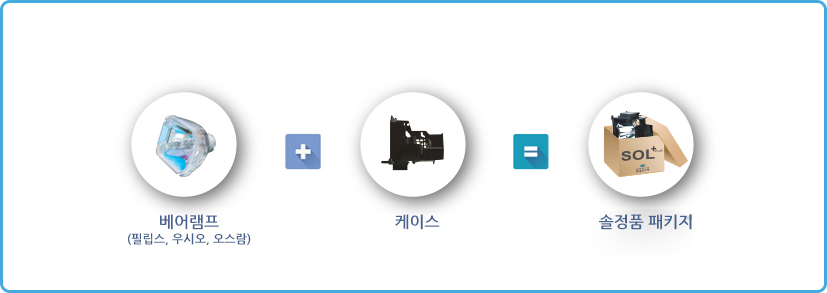
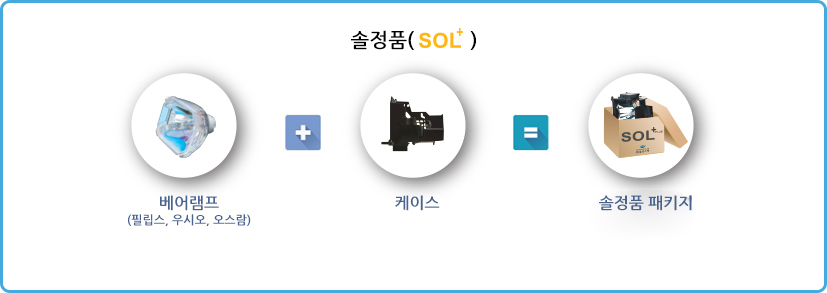
251028_13

diff --git a/sub02_2.html b/sub02_2.html
@@ -147,9 +147,153 @@
                     </ul>
                 </div>
             </div>
-            <div class="sol">2</div>
-            <div class="bare">3</div>
-            <div class="refill">4</div>
+            <div class="sol">
+                <img src="img/sub02-2_2.png" alt="솔정품 이미지">
+                <div class="solDetail">
+                    <b>제품적용 프로젝터 브랜드</b>
+                    <ul>
+                        <li><img src="img/product_brand/product_brand1.png" alt="제품 브랜드 이미지"></li>
+                        <li><img src="img/product_brand/product_brand2.png" alt="제품 브랜드 이미지"></li>
+                        <li><img src="img/product_brand/product_brand3.png" alt="제품 브랜드 이미지"></li>
+                        <li><img src="img/product_brand/product_brand4.png" alt="제품 브랜드 이미지"></li>
+                        <li><img src="img/product_brand/product_brand5.png" alt="제품 브랜드 이미지"></li>
+                        <li><img src="img/product_brand/product_brand6.png" alt="제품 브랜드 이미지"></li>
+                        <li><img src="img/product_brand/product_brand7.png" alt="제품 브랜드 이미지"></li>
+                        <li><img src="img/product_brand/product_brand8.png" alt="제품 브랜드 이미지"></li>
+                        <li><img src="img/product_brand/product_brand9.png" alt="제품 브랜드 이미지"></li>
+                        <li><img src="img/product_brand/product_brand10.png" alt="제품 브랜드 이미지"></li>
+                        <li><img src="img/product_brand/product_brand11.png" alt="제품 브랜드 이미지"></li>
+                        <li><img src="img/product_brand/product_brand12.png" alt="제품 브랜드 이미지"></li>
+                        <li><img src="img/product_brand/product_brand13.png" alt="제품 브랜드 이미지"></li>
+                        <li><img src="img/product_brand/product_brand14.png" alt="제품 브랜드 이미지"></li>
+                        <li><img src="img/product_brand/product_brand15.png" alt="제품 브랜드 이미지"></li>
+                        <li><img src="img/product_brand/product_brand16.png" alt="제품 브랜드 이미지"></li>
+                        <li><img src="img/product_brand/product_brand17.png" alt="제품 브랜드 이미지"></li>
+                        <li><img src="img/product_brand/product_brand18.png" alt="제품 브랜드 이미지"></li>
+                        <li><img src="img/product_brand/product_brand19.png" alt="제품 브랜드 이미지"></li>
+                        <li><img src="img/product_brand/product_brand20.png" alt="제품 브랜드 이미지"></li>
+                        <li><img src="img/product_brand/product_brand21.png" alt="제품 브랜드 이미지"></li>
+                        <li><img src="img/product_brand/product_brand22.png" alt="제품 브랜드 이미지"></li>
+                        <li><img src="img/product_brand/product_brand23.png" alt="제품 브랜드 이미지"></li>
+                        <li><img src="img/product_brand/product_brand24.png" alt="제품 브랜드 이미지"></li>
+                        <li><img src="img/product_brand/product_brand25.png" alt="제품 브랜드 이미지"></li>
+                        <li><img src="img/product_brand/product_brand26.png" alt="제품 브랜드 이미지"></li>
+                        <li><img src="img/product_brand/product_brand27.png" alt="제품 브랜드 이미지"></li>
+                        <li><img src="img/product_brand/product_brand28.png" alt="제품 브랜드 이미지"></li>
+                        <li><img src="img/product_brand/product_brand29.png" alt="제품 브랜드 이미지"></li>
+                        <li><img src="img/product_brand/product_brand30.png" alt="제품 브랜드 이미지"></li>
+                        <li><img src="img/product_brand/product_brand31.png" alt="제품 브랜드 이미지"></li>
+                        <li><img src="img/product_brand/product_brand32.png" alt="제품 브랜드 이미지"></li>
+                        <li><img src="img/product_brand/product_brand33.png" alt="제품 브랜드 이미지"></li>
+                        <li><img src="img/product_brand/product_brand34.png" alt="제품 브랜드 이미지"></li>
+                        <li><img src="img/product_brand/product_brand35.png" alt="제품 브랜드 이미지"></li>
+                        <li><img src="img/product_brand/product_brand36.png" alt="제품 브랜드 이미지"></li>
+                        <li><img src="img/product_brand/product_brand37.png" alt="제품 브랜드 이미지"></li>
+                        <li><img src="img/product_brand/product_brand38.png" alt="제품 브랜드 이미지"></li>
+                        <li>
+                            기타 전 기종이 가능합니다.
+                        </li>
+                    </ul>
+                </div>
+            </div>
+            <div class="bare">
+                <img src="img/sub02-2_3.png" alt="베어램프 이미지">
+                <div class="solDetail">
+                    <b>제품적용 프로젝터 브랜드</b>
+                    <ul>
+                        <li><img src="img/product_brand/product_brand1.png" alt="제품 브랜드 이미지"></li>
+                        <li><img src="img/product_brand/product_brand2.png" alt="제품 브랜드 이미지"></li>
+                        <li><img src="img/product_brand/product_brand3.png" alt="제품 브랜드 이미지"></li>
+                        <li><img src="img/product_brand/product_brand4.png" alt="제품 브랜드 이미지"></li>
+                        <li><img src="img/product_brand/product_brand5.png" alt="제품 브랜드 이미지"></li>
+                        <li><img src="img/product_brand/product_brand6.png" alt="제품 브랜드 이미지"></li>
+                        <li><img src="img/product_brand/product_brand7.png" alt="제품 브랜드 이미지"></li>
+                        <li><img src="img/product_brand/product_brand8.png" alt="제품 브랜드 이미지"></li>
+                        <li><img src="img/product_brand/product_brand9.png" alt="제품 브랜드 이미지"></li>
+                        <li><img src="img/product_brand/product_brand10.png" alt="제품 브랜드 이미지"></li>
+                        <li><img src="img/product_brand/product_brand11.png" alt="제품 브랜드 이미지"></li>
+                        <li><img src="img/product_brand/product_brand12.png" alt="제품 브랜드 이미지"></li>
+                        <li><img src="img/product_brand/product_brand13.png" alt="제품 브랜드 이미지"></li>
+                        <li><img src="img/product_brand/product_brand14.png" alt="제품 브랜드 이미지"></li>
+                        <li><img src="img/product_brand/product_brand15.png" alt="제품 브랜드 이미지"></li>
+                        <li><img src="img/product_brand/product_brand16.png" alt="제품 브랜드 이미지"></li>
+                        <li><img src="img/product_brand/product_brand17.png" alt="제품 브랜드 이미지"></li>
+                        <li><img src="img/product_brand/product_brand18.png" alt="제품 브랜드 이미지"></li>
+                        <li><img src="img/product_brand/product_brand19.png" alt="제품 브랜드 이미지"></li>
+                        <li><img src="img/product_brand/product_brand20.png" alt="제품 브랜드 이미지"></li>
+                        <li><img src="img/product_brand/product_brand21.png" alt="제품 브랜드 이미지"></li>
+                        <li><img src="img/product_brand/product_brand22.png" alt="제품 브랜드 이미지"></li>
+                        <li><img src="img/product_brand/product_brand23.png" alt="제품 브랜드 이미지"></li>
+                        <li><img src="img/product_brand/product_brand24.png" alt="제품 브랜드 이미지"></li>
+                        <li><img src="img/product_brand/product_brand25.png" alt="제품 브랜드 이미지"></li>
+                        <li><img src="img/product_brand/product_brand26.png" alt="제품 브랜드 이미지"></li>
+                        <li><img src="img/product_brand/product_brand27.png" alt="제품 브랜드 이미지"></li>
+                        <li><img src="img/product_brand/product_brand28.png" alt="제품 브랜드 이미지"></li>
+                        <li><img src="img/product_brand/product_brand29.png" alt="제품 브랜드 이미지"></li>
+                        <li><img src="img/product_brand/product_brand30.png" alt="제품 브랜드 이미지"></li>
+                        <li><img src="img/product_brand/product_brand31.png" alt="제품 브랜드 이미지"></li>
+                        <li><img src="img/product_brand/product_brand32.png" alt="제품 브랜드 이미지"></li>
+                        <li><img src="img/product_brand/product_brand33.png" alt="제품 브랜드 이미지"></li>
+                        <li><img src="img/product_brand/product_brand34.png" alt="제품 브랜드 이미지"></li>
+                        <li><img src="img/product_brand/product_brand35.png" alt="제품 브랜드 이미지"></li>
+                        <li><img src="img/product_brand/product_brand36.png" alt="제품 브랜드 이미지"></li>
+                        <li><img src="img/product_brand/product_brand37.png" alt="제품 브랜드 이미지"></li>
+                        <li><img src="img/product_brand/product_brand38.png" alt="제품 브랜드 이미지"></li>
+                        <li>
+                            기타 전 기종이 가능합니다.
+                        </li>
+                    </ul>
+                </div>
+            </div>
+            <div class="refill">
+                <img src="img/sub02-2_4.png" alt="리필램프 이미지">
+                <div class="solDetail">
+                    <b>제품적용 프로젝터 브랜드</b>
+                    <ul>
+                        <li><img src="img/product_brand/product_brand1.png" alt="제품 브랜드 이미지"></li>
+                        <li><img src="img/product_brand/product_brand2.png" alt="제품 브랜드 이미지"></li>
+                        <li><img src="img/product_brand/product_brand3.png" alt="제품 브랜드 이미지"></li>
+                        <li><img src="img/product_brand/product_brand4.png" alt="제품 브랜드 이미지"></li>
+                        <li><img src="img/product_brand/product_brand5.png" alt="제품 브랜드 이미지"></li>
+                        <li><img src="img/product_brand/product_brand6.png" alt="제품 브랜드 이미지"></li>
+                        <li><img src="img/product_brand/product_brand7.png" alt="제품 브랜드 이미지"></li>
+                        <li><img src="img/product_brand/product_brand8.png" alt="제품 브랜드 이미지"></li>
+                        <li><img src="img/product_brand/product_brand9.png" alt="제품 브랜드 이미지"></li>
+                        <li><img src="img/product_brand/product_brand10.png" alt="제품 브랜드 이미지"></li>
+                        <li><img src="img/product_brand/product_brand11.png" alt="제품 브랜드 이미지"></li>
+                        <li><img src="img/product_brand/product_brand12.png" alt="제품 브랜드 이미지"></li>
+                        <li><img src="img/product_brand/product_brand13.png" alt="제품 브랜드 이미지"></li>
+                        <li><img src="img/product_brand/product_brand14.png" alt="제품 브랜드 이미지"></li>
+                        <li><img src="img/product_brand/product_brand15.png" alt="제품 브랜드 이미지"></li>
+                        <li><img src="img/product_brand/product_brand16.png" alt="제품 브랜드 이미지"></li>
+                        <li><img src="img/product_brand/product_brand17.png" alt="제품 브랜드 이미지"></li>
+                        <li><img src="img/product_brand/product_brand18.png" alt="제품 브랜드 이미지"></li>
+                        <li><img src="img/product_brand/product_brand19.png" alt="제품 브랜드 이미지"></li>
+                        <li><img src="img/product_brand/product_brand20.png" alt="제품 브랜드 이미지"></li>
+                        <li><img src="img/product_brand/product_brand21.png" alt="제품 브랜드 이미지"></li>
+                        <li><img src="img/product_brand/product_brand22.png" alt="제품 브랜드 이미지"></li>
+                        <li><img src="img/product_brand/product_brand23.png" alt="제품 브랜드 이미지"></li>
+                        <li><img src="img/product_brand/product_brand24.png" alt="제품 브랜드 이미지"></li>
+                        <li><img src="img/product_brand/product_brand25.png" alt="제품 브랜드 이미지"></li>
+                        <li><img src="img/product_brand/product_brand26.png" alt="제품 브랜드 이미지"></li>
+                        <li><img src="img/product_brand/product_brand27.png" alt="제품 브랜드 이미지"></li>
+                        <li><img src="img/product_brand/product_brand28.png" alt="제품 브랜드 이미지"></li>
+                        <li><img src="img/product_brand/product_brand29.png" alt="제품 브랜드 이미지"></li>
+                        <li><img src="img/product_brand/product_brand30.png" alt="제품 브랜드 이미지"></li>
+                        <li><img src="img/product_brand/product_brand31.png" alt="제품 브랜드 이미지"></li>
+                        <li><img src="img/product_brand/product_brand32.png" alt="제품 브랜드 이미지"></li>
+                        <li><img src="img/product_brand/product_brand33.png" alt="제품 브랜드 이미지"></li>
+                        <li><img src="img/product_brand/product_brand34.png" alt="제품 브랜드 이미지"></li>
+                        <li><img src="img/product_brand/product_brand35.png" alt="제품 브랜드 이미지"></li>
+                        <li><img src="img/product_brand/product_brand36.png" alt="제품 브랜드 이미지"></li>
+                        <li><img src="img/product_brand/product_brand37.png" alt="제품 브랜드 이미지"></li>
+                        <li><img src="img/product_brand/product_brand38.png" alt="제품 브랜드 이미지"></li>
+                        <li>
+                            기타 전 기종이 가능합니다.
+                        </li>
+                    </ul>
+                </div>
+            </div>
         </div>
     </div>
     <footer>

diff --git a/css/page.css b/css/page.css
@@ -1076,8 +1076,9 @@
     margin: 0 auto;
     margin-bottom: 100px;
     width: 100%;
+    max-width: 850px;
 }
-.sub02_con02_detail>div .oemDetail>b{
+.sub02_con02_detail>div>div>b{
     display: block;
     text-align: center;
     color: #005bac;
@@ -1085,7 +1086,7 @@
     margin-bottom: 30px;
     font-size: 26px;
 }
-.sub02_con02_detail>div .oemDetail>ul{
+.sub02_con02_detail>div>div>ul{
     display: flex;
     flex-wrap: wrap;
     align-items: center;
@@ -1093,16 +1094,16 @@
     max-width: 840px;
     margin: 0 auto;
 }
-.sub02_con02_detail>div .oemDetail ul li{
+.sub02_con02_detail>div>div ul li{
     color: #565d67;
     font-weight: 400;
     align-items: center;
     font-size: 14px;
 }
-.sub02_con02_detail>div .oemDetail>ul>li{
+.sub02_con02_detail>div>div>ul>li{
     width: calc((100% - 20px) / 5);
 }
-.sub02_con02_detail>div .oemDetail>ul>li>img{
+.sub02_con02_detail>div>div>ul>li>img{
     width: 100%;
 }
 .sub02_con02_detail>div{
@@ -1793,21 +1794,21 @@
     .sub02_con02_detail>div>img{
         margin-bottom: 50px;
     }
-    .sub02_con02_detail>div .oemDetail>b{
+    .sub02_con02_detail>div>div>b{
         font-size: 20px;
         margin-bottom: 20px;
     }
-    .sub02_con02_detail>div .oemDetail>ul{
+    .sub02_con02_detail>div>div>ul{
         display: flex;
         flex-wrap: wrap;
         gap: 5px;
         max-width: 840px;
         margin: 0 auto;
     }
-    .sub02_con02_detail>div .oemDetail>ul>li{
+    .sub02_con02_detail>div>div>ul>li{
         width: calc((100% - 15px) / 3);
     }
-    .sub02_con02_detail>div .oemDetail>ul>li>img{
+    .sub02_con02_detail>div>div>ul>li>img{
         width: 100%;
     }
     /* sub02_con02 Fin */
